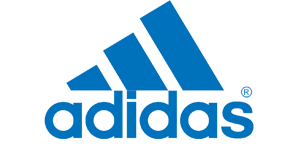
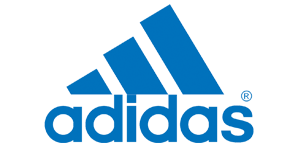
Portfolio Tweaks (removed caption, added links, improved styling)

Changed region(s): [[0.12, 0.1867, 0.87, 0.96], [0.45, 0.0, 0.69, 0.4267]]

diff --git a/_includes/portfolio.html b/_includes/portfolio.html
@@ -1,171 +1,98 @@
-<section class="no-padding" id="portfolio">
-    <div class="container-fluid">
-        <div class="row no-gutter">
+<section class="bg-primary" id="portfolio">
+    <div class="container">
+        <div class="row">
+            <div class="col-lg-8 col-lg-offset-2 text-center">
+                <h2 class="section-heading">The Many Faces of LeanMeanTech Clients</h2>
+                <hr class="light">
+                <p>
+                    From striving forward with small startups to working with Fortune 500 enterprises, LeanMeanTech delivers mobile applications.
+                </p>
+            </div>
+        </div>
+        <div class="row">
             <div class="col-lg-4 col-sm-6 portfolio-popin">
-                <a href="#">
+                <a href="https://www.dropoff.com/" target="_blank">
                     <div class="logo">
                         <img src="{{page.leadingpath}}img/external/portfolio/dropoff_blank.png" class="blank img-responsive" alt="">
                         <img src="{{page.leadingpath}}img/external/portfolio/dropoff_normal.png" class="normal img-responsive" alt="">
                     </div>
                     
-                    <div class="caption">
+                    <!-- <div class="caption">
                         <div class="project-category">
                             Going to Market
                         </div>
-                    </div>
+                    </div> -->
                 </a>
             </div>
             <div class="col-lg-4 col-sm-6 portfolio-popin">
-                <a href="#">
+                <a href="https://www.silvercar.com/" target="_blank">
                     <div class="logo">
                         <img src="{{page.leadingpath}}img/external/portfolio/silvercar_blank.png" class="blank img-responsive" alt="">
                         <img src="{{page.leadingpath}}img/external/portfolio/silvercar_normal.png" class="normal img-responsive" alt="">
                     </div>
                     
-                    <div class="caption">
+                    <!-- <div class="caption">
                         <div class="project-category">
                             Upping the Android Game
                         </div>
-                    </div>
+                    </div> -->
                 </a>
             </div>
             <div class="col-lg-4 col-sm-6 portfolio-popin">
-                <a href="#">
+                <a href="https://www.adidas.com/us/" target="_blank">
                     <div class="logo">
                         <img src="{{page.leadingpath}}img/external/portfolio/adidas_blank.png" class="blank img-responsive" alt="">
                         <img src="{{page.leadingpath}}img/external/portfolio/adidas_normal.png" class="normal img-responsive" alt="">
                     </div>
                     
-                    <div class="caption">
+                    <!-- <div class="caption">
                         <div class="project-category">
                             Partner in Idea Development
                         </div>
-                    </div>
+                    </div> -->
                 </a>
             </div>
-        </div>
-        <div class="row no-gutter">
             <div class="col-lg-4 col-sm-6 portfolio-popin">
-                <a href="#">
+                <a href="https://www.docbookmd.com/" target="_blank">
                     <div class="logo">
                         <img src="{{page.leadingpath}}img/external/portfolio/docbookmd_blank.png" class="blank img-responsive" alt="">
                         <img src="{{page.leadingpath}}img/external/portfolio/docbookmd_normal.png" class="normal img-responsive" alt="">
                     </div>
                     
-                    <div class="caption">
+                    <!-- <div class="caption">
                         <div class="project-category">
                             Compliance and Business Rules
                         </div>
-                    </div>
+                    </div> -->
                 </a>
             </div>
             <div class="col-lg-4 col-sm-6 portfolio-popin">
-                <a href="#">
+                <a href="https://www.homeaway.com/" target="_blank">
                     <div class="logo">
                         <img src="{{page.leadingpath}}img/external/portfolio/homeaway_blank.png" class="blank img-responsive" alt="">
                         <img src="{{page.leadingpath}}img/external/portfolio/homeaway_normal.png" class="normal img-responsive" alt="">
                     </div>
                     
-                    <div class="caption">
+                    <!-- <div class="caption">
                         <div class="project-category">
                             Android Experts
                         </div>
-                    </div>
+                    </div> -->
                 </a>
             </div>
             <div class="col-lg-4 col-sm-6 portfolio-popin">
-                <a href="#">
+                <a href="https://www.honestdollar.com/" target="_blank">
                     <div class="logo">
                         <img src="{{page.leadingpath}}img/external/portfolio/honestdollar_blank.png" class="blank img-responsive" alt="">
                         <img src="{{page.leadingpath}}img/external/portfolio/honestdollar_normal.png" class="normal img-responsive" alt="">
                     </div>
                     
-                    <div class="caption">
+                    <!-- <div class="caption">
                         <div class="project-category">
                             Android Experts
                         </div>
-                    </div>
+                    </div> -->
                 </a>
             </div>
         </div>
-            
-            <!--
-            <div class="col-lg-4 col-sm-6">
-                <a href="#" class="portfolio-box">
-                    <img src="{{page.leadingpath}}img/portfolio/2.jpg" class="img-responsive" alt="">
-                    <div class="portfolio-box-caption">
-                        <div class="portfolio-box-caption-content">
-                            <div class="project-category text-faded">
-                                Category
-                            </div>
-                            <div class="project-name">
-                                Project Name
-                            </div>
-                        </div>
-                    </div>
-                </a>
-            </div>
-            <div class="col-lg-4 col-sm-6">
-                <a href="#" class="portfolio-box">
-                    <img src="{{page.leadingpath}}img/portfolio/3.jpg" class="img-responsive" alt="">
-                    <div class="portfolio-box-caption">
-                        <div class="portfolio-box-caption-content">
-                            <div class="project-category text-faded">
-                                Category
-                            </div>
-                            <div class="project-name">
-                                Project Name
-                            </div>
-                        </div>
-                    </div>
-                </a>
-            </div>
-            <div class="col-lg-4 col-sm-6">
-                <a href="#" class="portfolio-box">
-                    <img src="{{page.leadingpath}}img/portfolio/4.jpg" class="img-responsive" alt="">
-                    <div class="portfolio-box-caption">
-                        <div class="portfolio-box-caption-content">
-                            <div class="project-category text-faded">
-                                Category
-                            </div>
-                            <div class="project-name">
-                                Project Name
-                            </div>
-                        </div>
-                    </div>
-                </a>
-            </div>
-            <div class="col-lg-4 col-sm-6">
-                <a href="#" class="portfolio-box">
-                    <img src="{{page.leadingpath}}img/portfolio/5.jpg" class="img-responsive" alt="">
-                    <div class="portfolio-box-caption">
-                        <div class="portfolio-box-caption-content">
-                            <div class="project-category text-faded">
-                                Category
-                            </div>
-                            <div class="project-name">
-                                Project Name
-                            </div>
-                        </div>
-                    </div>
-                </a>
-            </div>
-            <div class="col-lg-4 col-sm-6">
-                <a href="#" class="portfolio-box">
-                    <img src="{{page.leadingpath}}img/portfolio/6.jpg" class="img-responsive" alt="">
-                    <div class="portfolio-box-caption">
-                        <div class="portfolio-box-caption-content">
-                            <div class="project-category text-faded">
-                                Category
-                            </div>
-                            <div class="project-name">
-                                Project Name
-                            </div>
-                        </div>
-                    </div>
-                </a>
-            </div>
-        </div>
-    </div>
--->
 </section>

diff --git a/_sass/_base.scss b/_sass/_base.scss
@@ -527,8 +527,11 @@ section#contact {
 }
 
 .portfolio-popin {
-    padding: 25px 0px 25px 0px;
+    // padding: 25px 0px 25px 0px;
     background: $theme-primary;
+    
+    // Prevent crowding on hover
+    margin-top: 25px;
     
     .logo {
         position: relative;
@@ -536,37 +539,40 @@ section#contact {
         height: 150px;
         margin: 0px auto 0px auto;
         
+        // height: 75px;
+        // width: 150px;
+        
         @media only screen and (-webkit-min-device-pixel-ratio: 2) and (max-width: 768px) {
             height: 75px;
             width: 150px;
         }
     }
     
-    .caption {
-        display: none;
-        position: absolute;
-        bottom: 0;
-        opacity: 0;
-        width: 100%;
-        padding: 10px;
-        background-color: $theme-dark;
-        color: white;
-        display: block;
-        text-align: center;
-        .project-category,
-        .project-name {
-            @include sans-serif-font;
-            padding: 0 15px;
-        }
-        .project-category {
-            text-transform: uppercase;
-            font-weight: 600;
-            font-size: 14px;
-        }
-        .project-name {
-            font-size: 18px;
-        }
-    }
+    // .caption {
+    //     display: none;
+    //     position: absolute;
+    //     bottom: 0;
+    //     opacity: 0;
+    //     width: 100%;
+    //     padding: 10px;
+    //     background-color: $theme-dark;
+    //     color: white;
+    //     display: block;
+    //     text-align: center;
+    //     .project-category,
+    //     .project-name {
+    //         @include sans-serif-font;
+    //         padding: 0 15px;
+    //     }
+    //     .project-category {
+    //         text-transform: uppercase;
+    //         font-weight: 600;
+    //         font-size: 14px;
+    //     }
+    //     .project-name {
+    //         font-size: 18px;
+    //     }
+    // }
     
     img {
         position: absolute;
@@ -595,11 +601,11 @@ section#contact {
         }
         
         @media (min-width: 768px) {
-            .caption {
-                opacity: 1;
-            }
+            // .caption {
+            //     opacity: 1;
+            // }
             
-            min-height: 225px;
+            //min-height: 225px;
         }
     }
     
@@ -608,16 +614,12 @@ section#contact {
     }
     
     @media (min-width: 768px) {
-        padding: 25px 25px 0px 25px;
-        min-height: 200px;
-        
-        .logo {
-            
-        }
-        
-        .caption {
-            display: block;
-        }
+        //padding: 25px 25px 0px 25px;
+        //min-height: 200px;
+                
+        // .caption {
+        //     display: block;
+        // }
     }
 
 }

diff --git a/_includes/about.html b/_includes/about.html
@@ -9,7 +9,7 @@
                     principal. We develop higher quality software solutions faster 
                     and more cost-effectively than other providers.
                 </p>                
-                <a href="#" class="btn btn-primary btn-xl">Learn More</a>
+                <a href="#contact" class="btn btn-primary btn-xl page-scroll">Learn More</a>
                 <div class="spacer"></div> 
             </div>
         </div>
